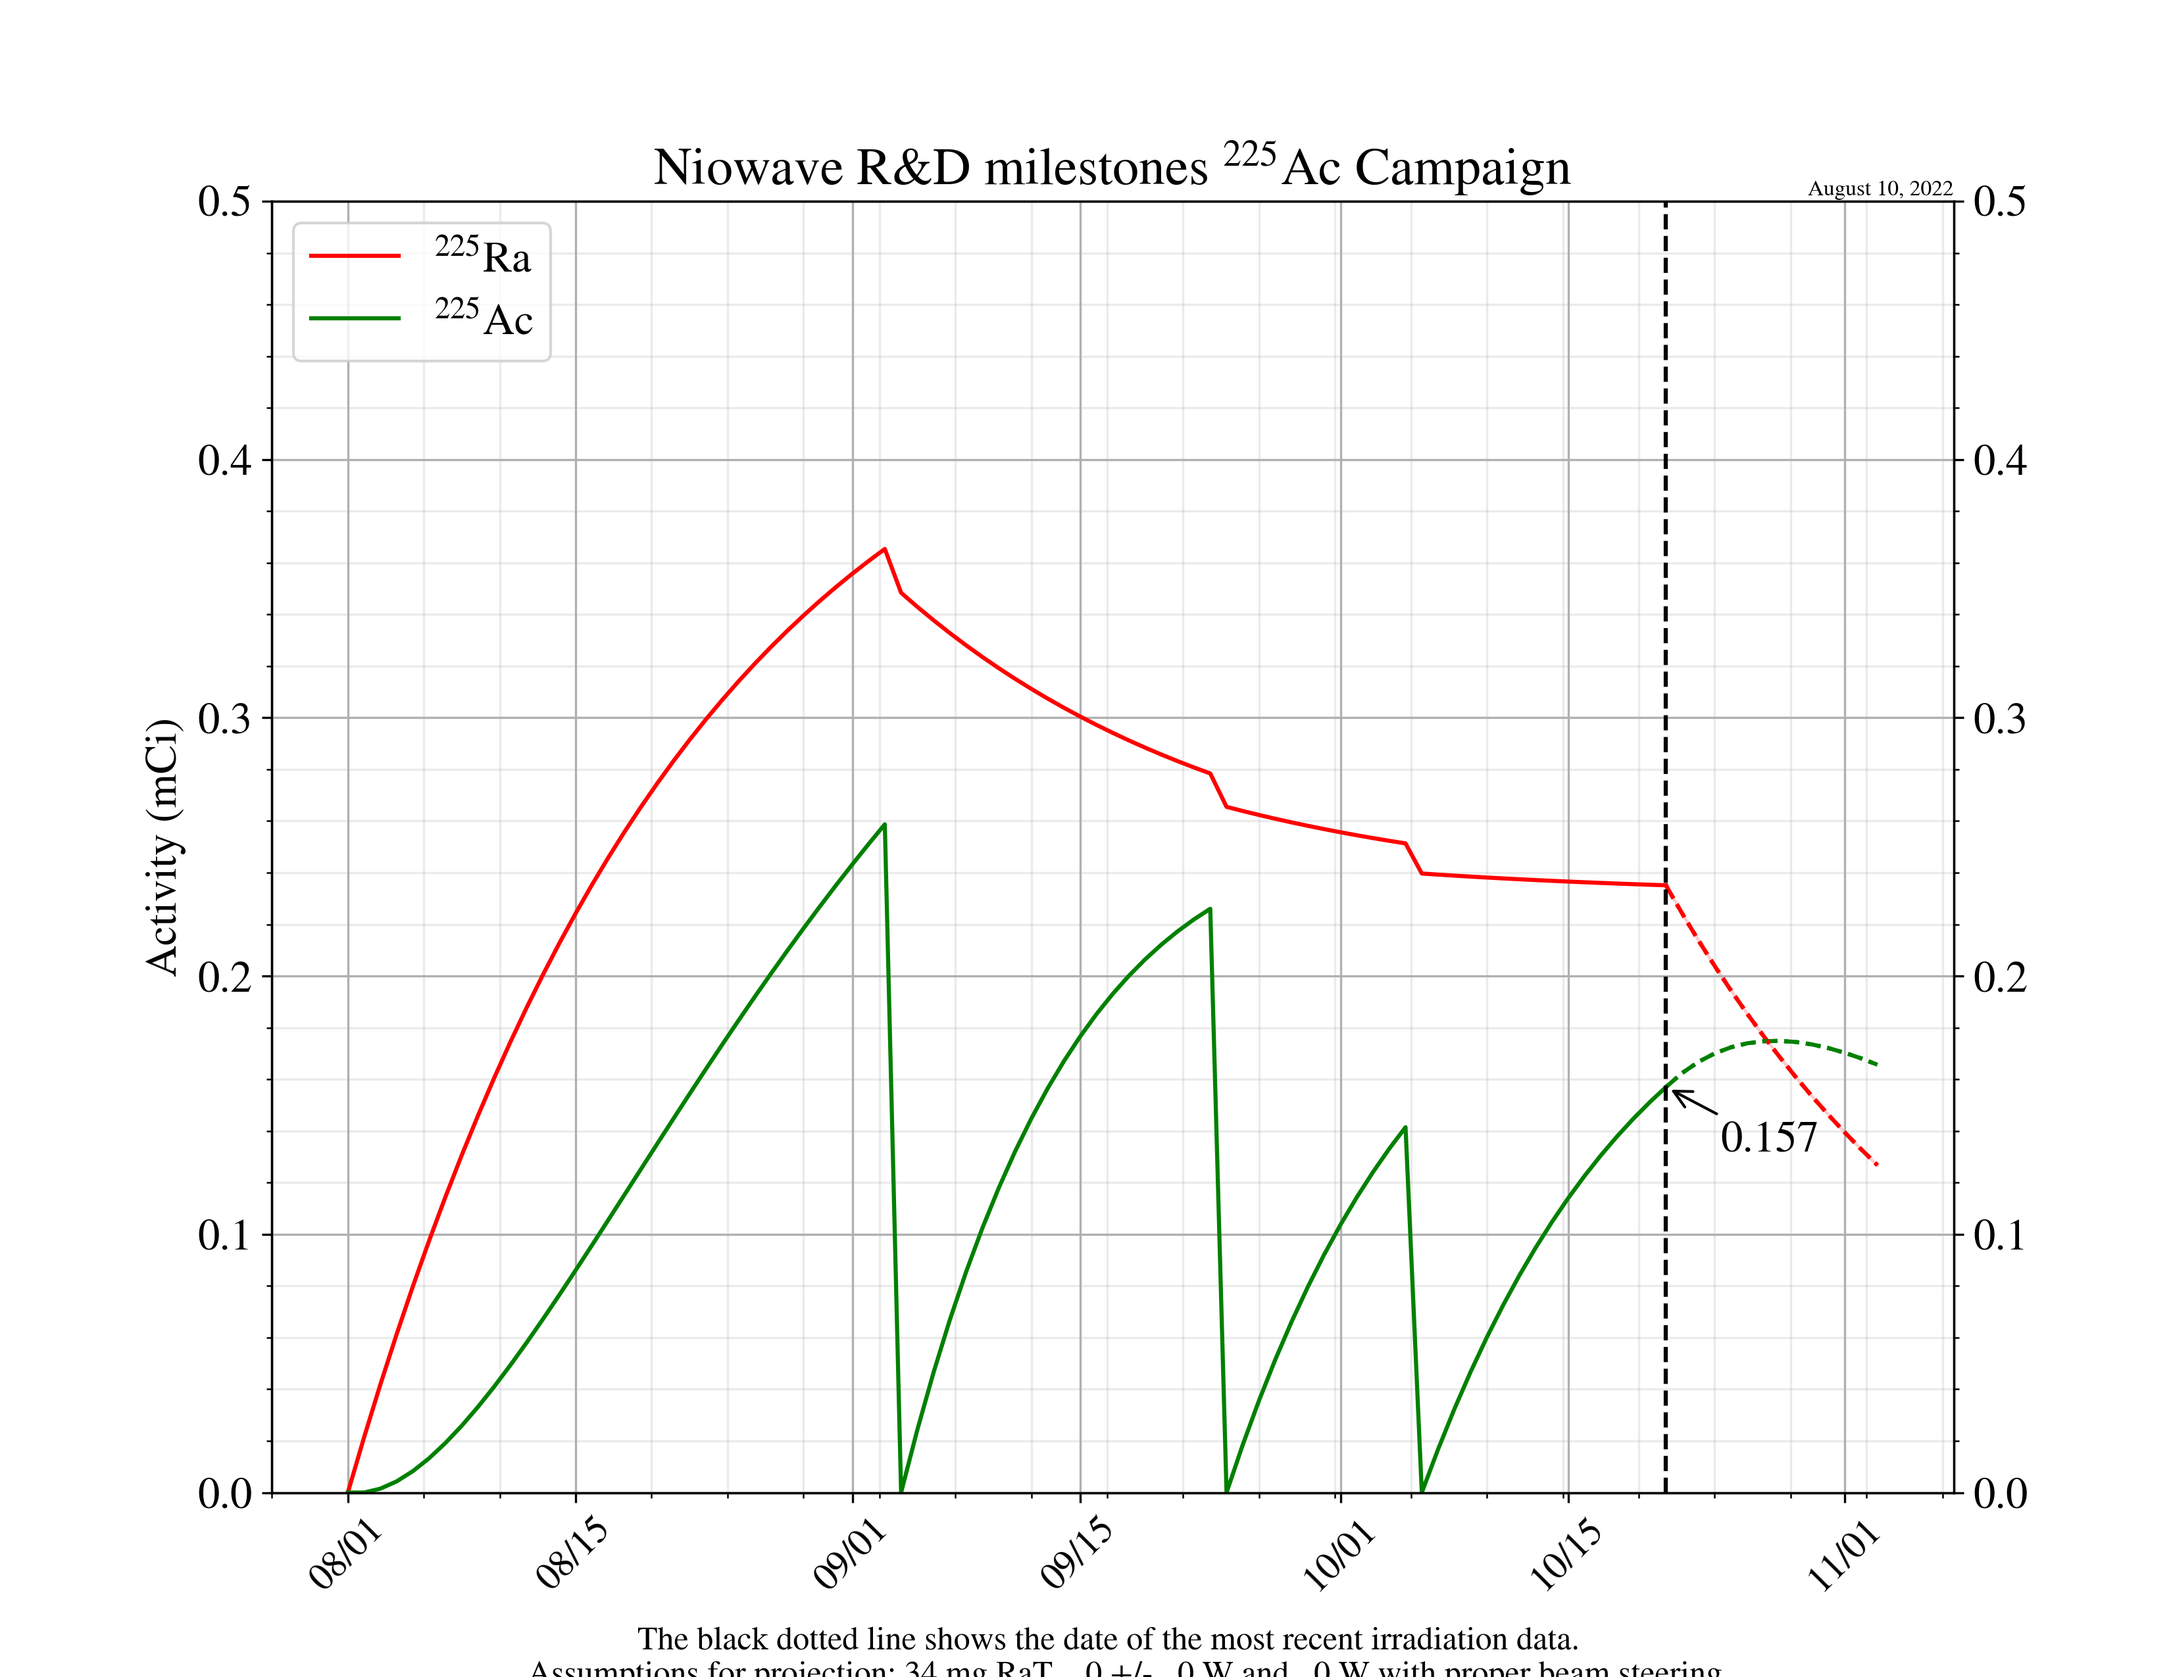
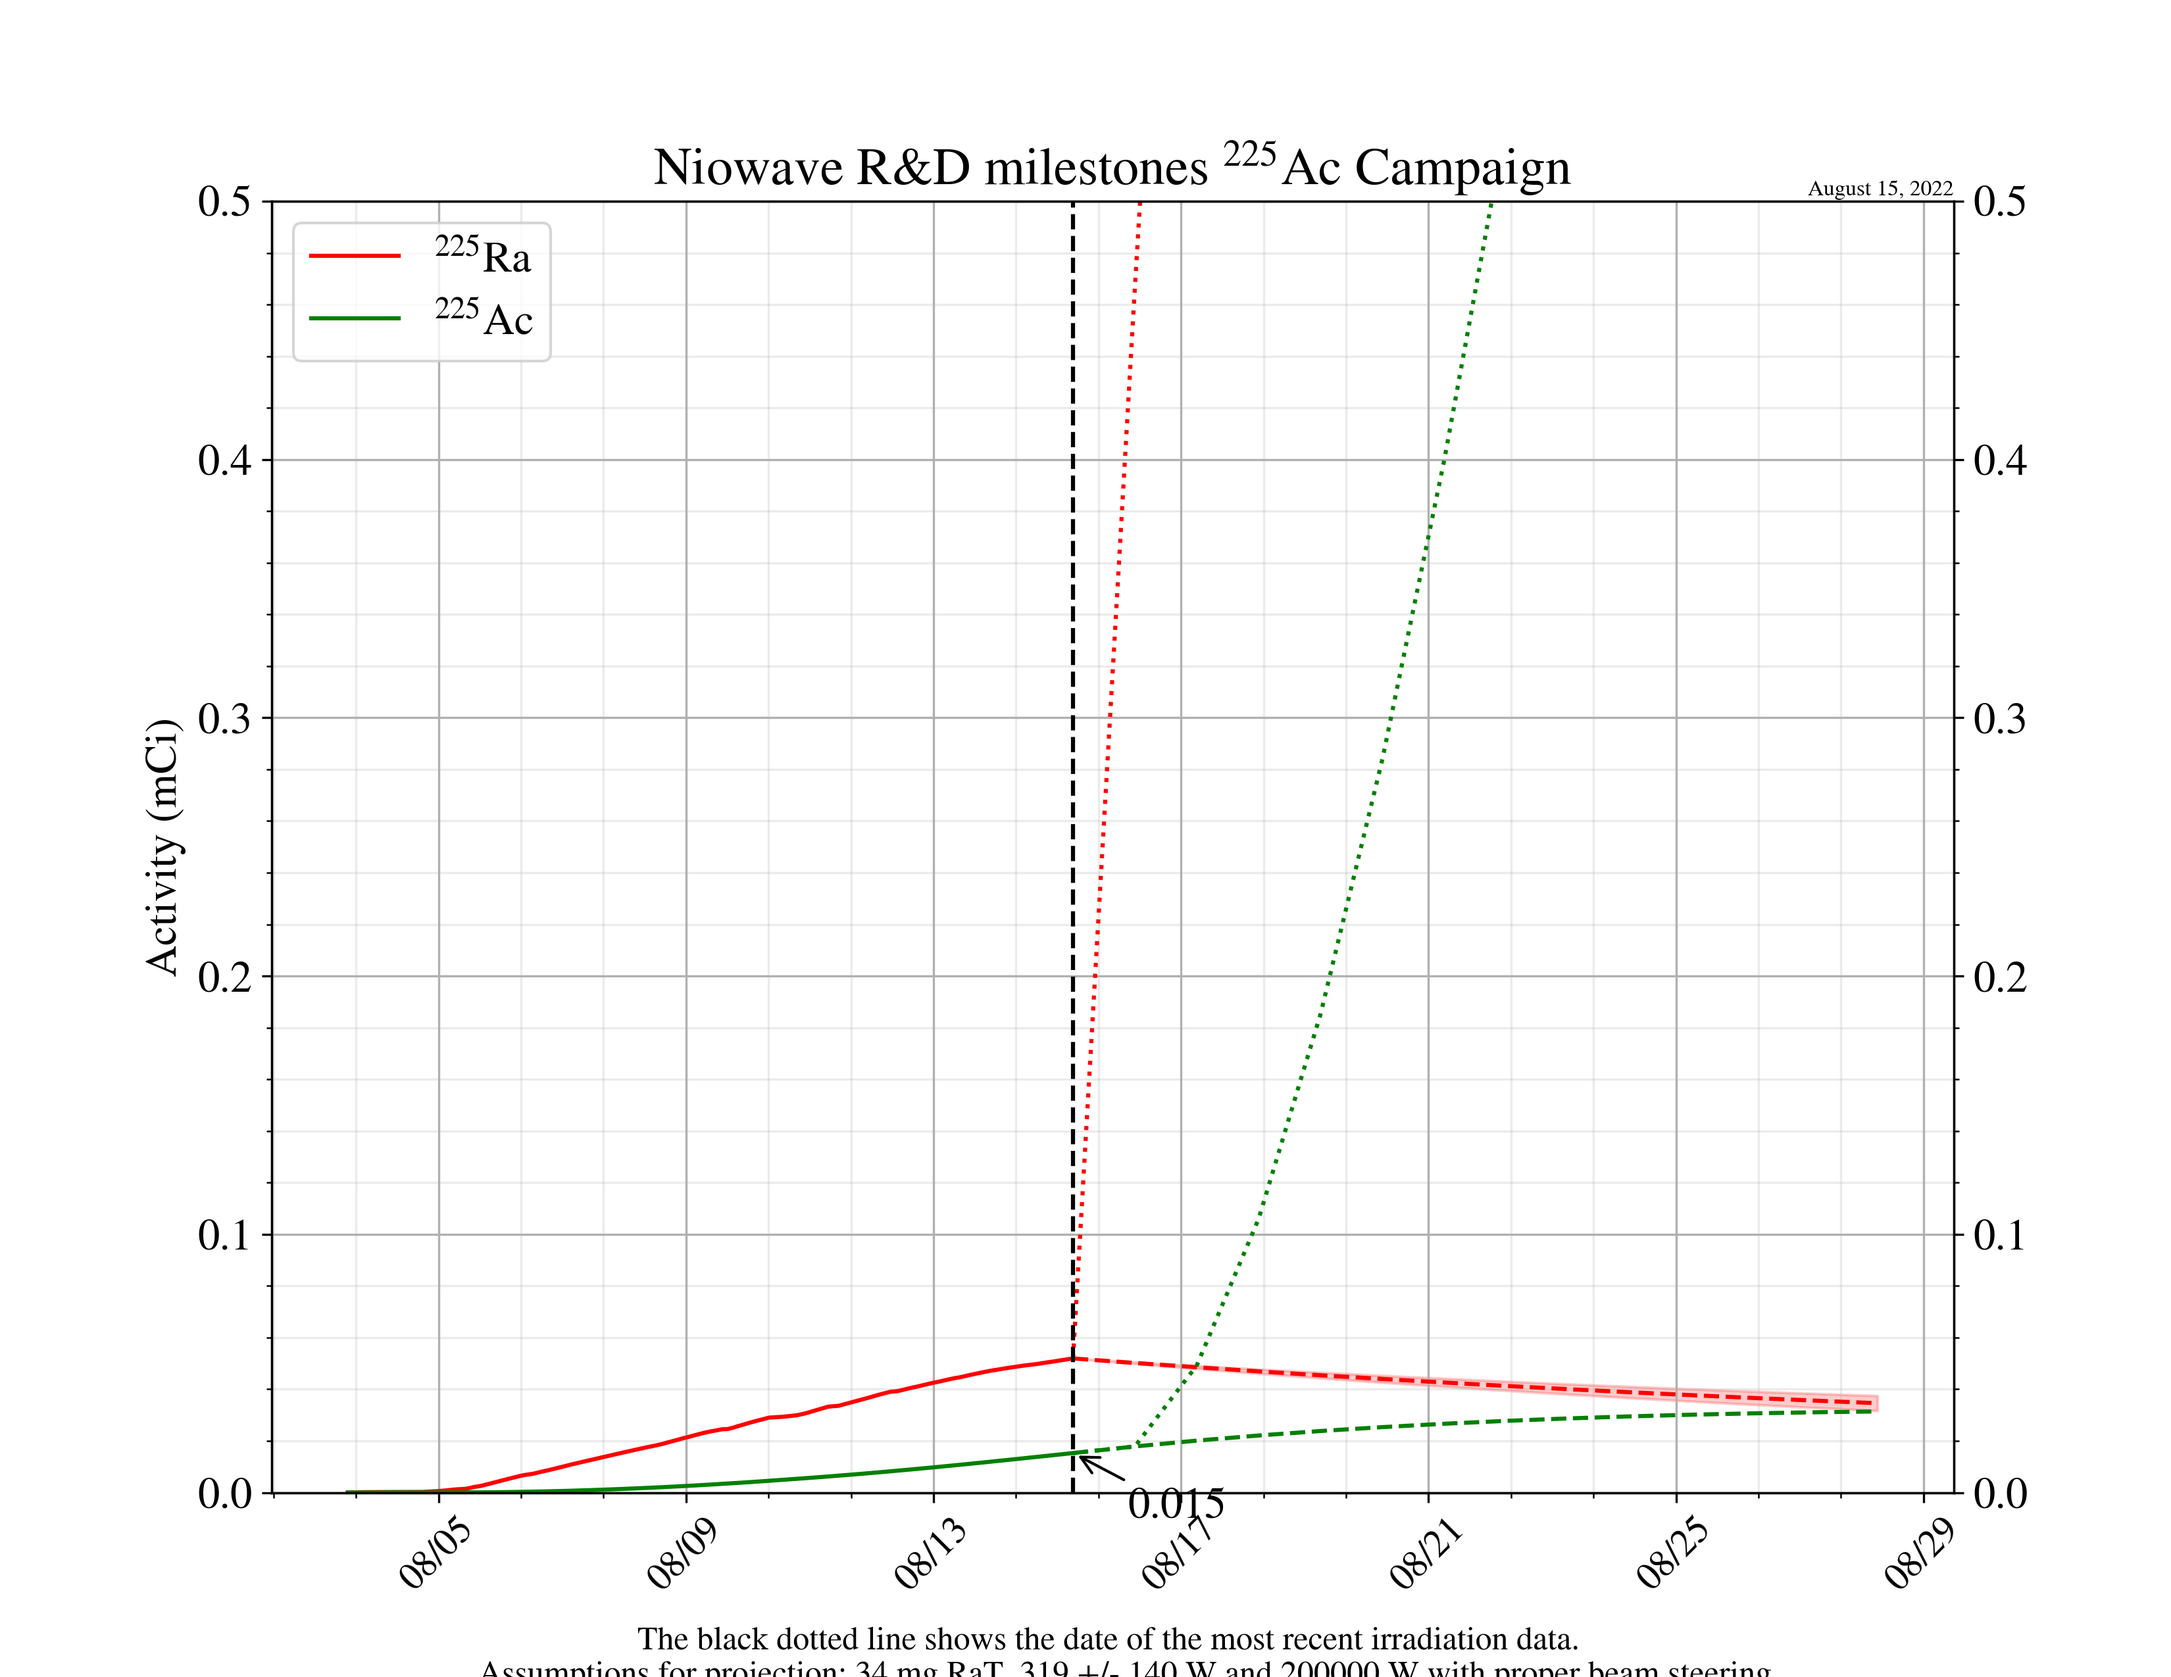
Fixed a mask, added a function

diff --git a/Ac_growth_in_progress.py b/Ac_growth_in_progress.py
@@ -119,6 +119,10 @@ def reaction_rate_calculator(energy):
 def dose_to_accumulated_power(dose):
     return dose/mGy_min_watt/60
 
+def power_to_integrated_power(power,dt):
+    '''takes power in W and dt in seconds and returns kwHr of integrated power'''
+    return(power/1000*dt/3600)
+
 def main(beam_data):
     
         
@@ -194,14 +198,11 @@ def main(beam_data):
     #######################
 
 
-    mask = (DF['Extraction'] == 'YES')
+    mask = (DF['Extraction'] == 'NO')
     masked_df = DF[mask]
 
     Projected_power = masked_df["Integrated Power (kWhr from Acc)"].tail(meta["Moving avg length"]).mean()
     Power_std = masked_df["Integrated Power (kWhr from Acc)"].tail(meta["Moving avg length"]).std()
-
-    # Projected_power = DF["Integrated Power (kWhr from Acc)"].tail(meta["Moving avg length"]).mean()
-    # Power_std = DF["Integrated Power (kWhr from Acc)"].tail(meta["Moving avg length"]).std()
 
     End = DF["Date and Time"].tail(1).item().to_pydatetime() # Get the last date
     # Create a series of datetime objects with parameters from meta data for projection
@@ -391,4 +392,5 @@ def main(beam_data):
     plt.savefig(file_name, bbox_inches = 'tight')
 
 if __name__ == '__main__':
-    main("Beam data.csv")
+    main("irradiation log.csv")
+##    main("Beam data.csv")
